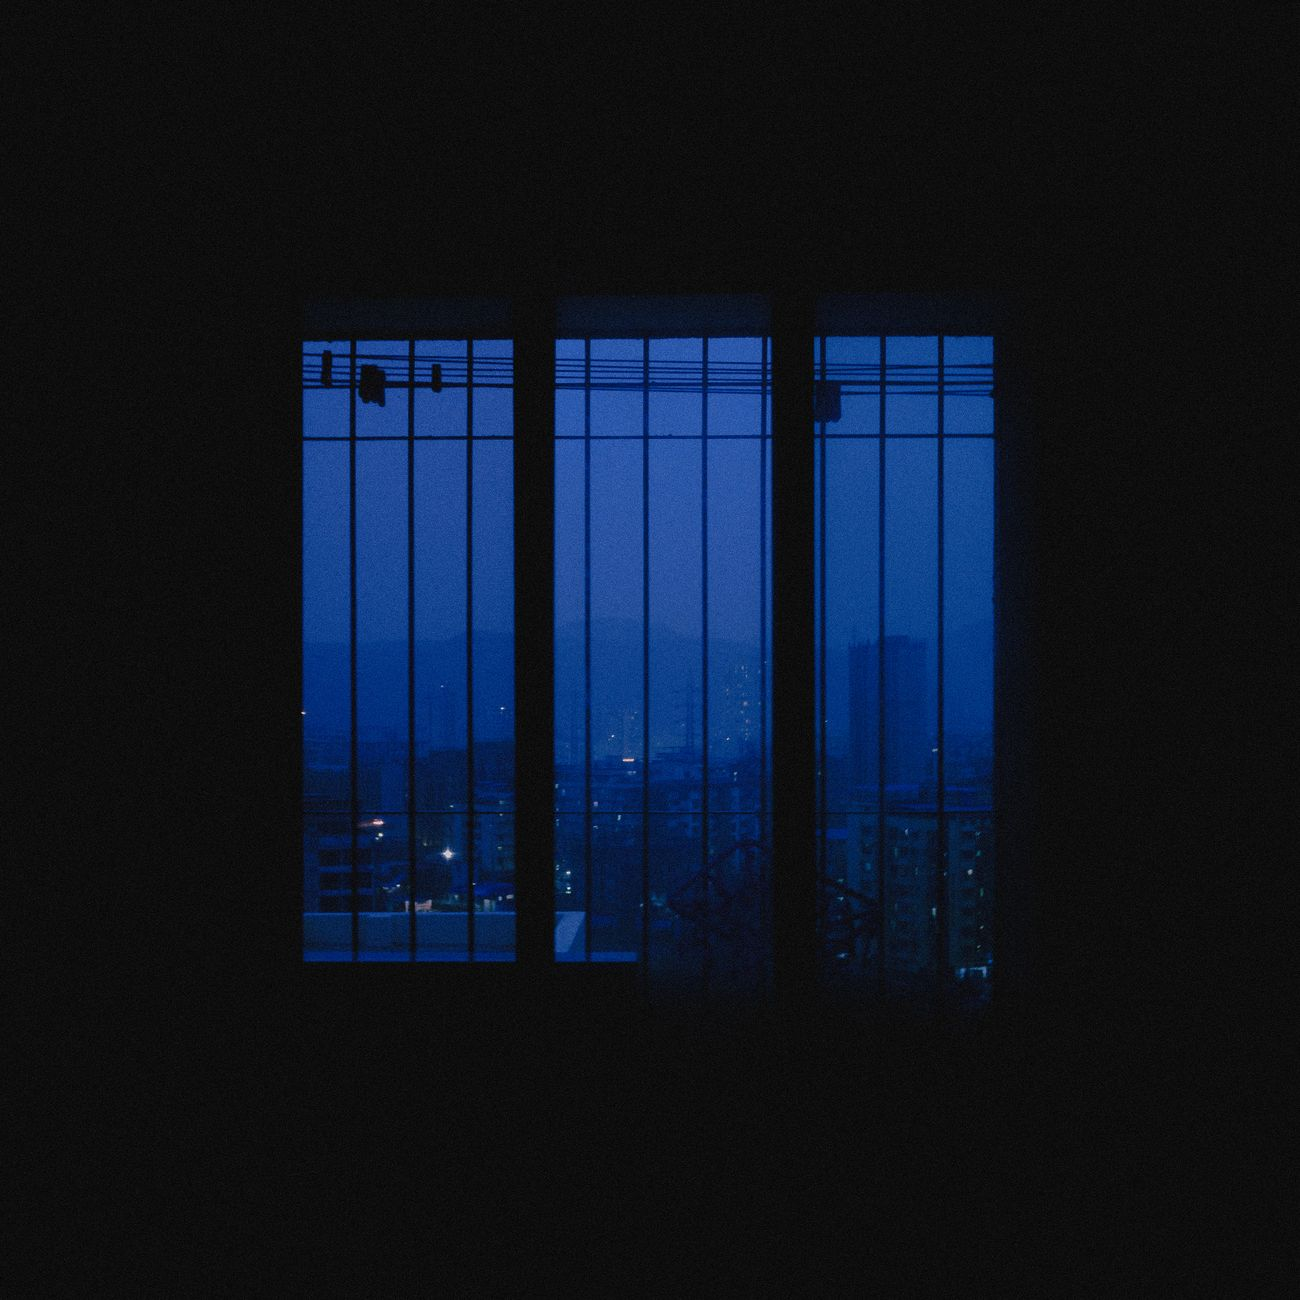
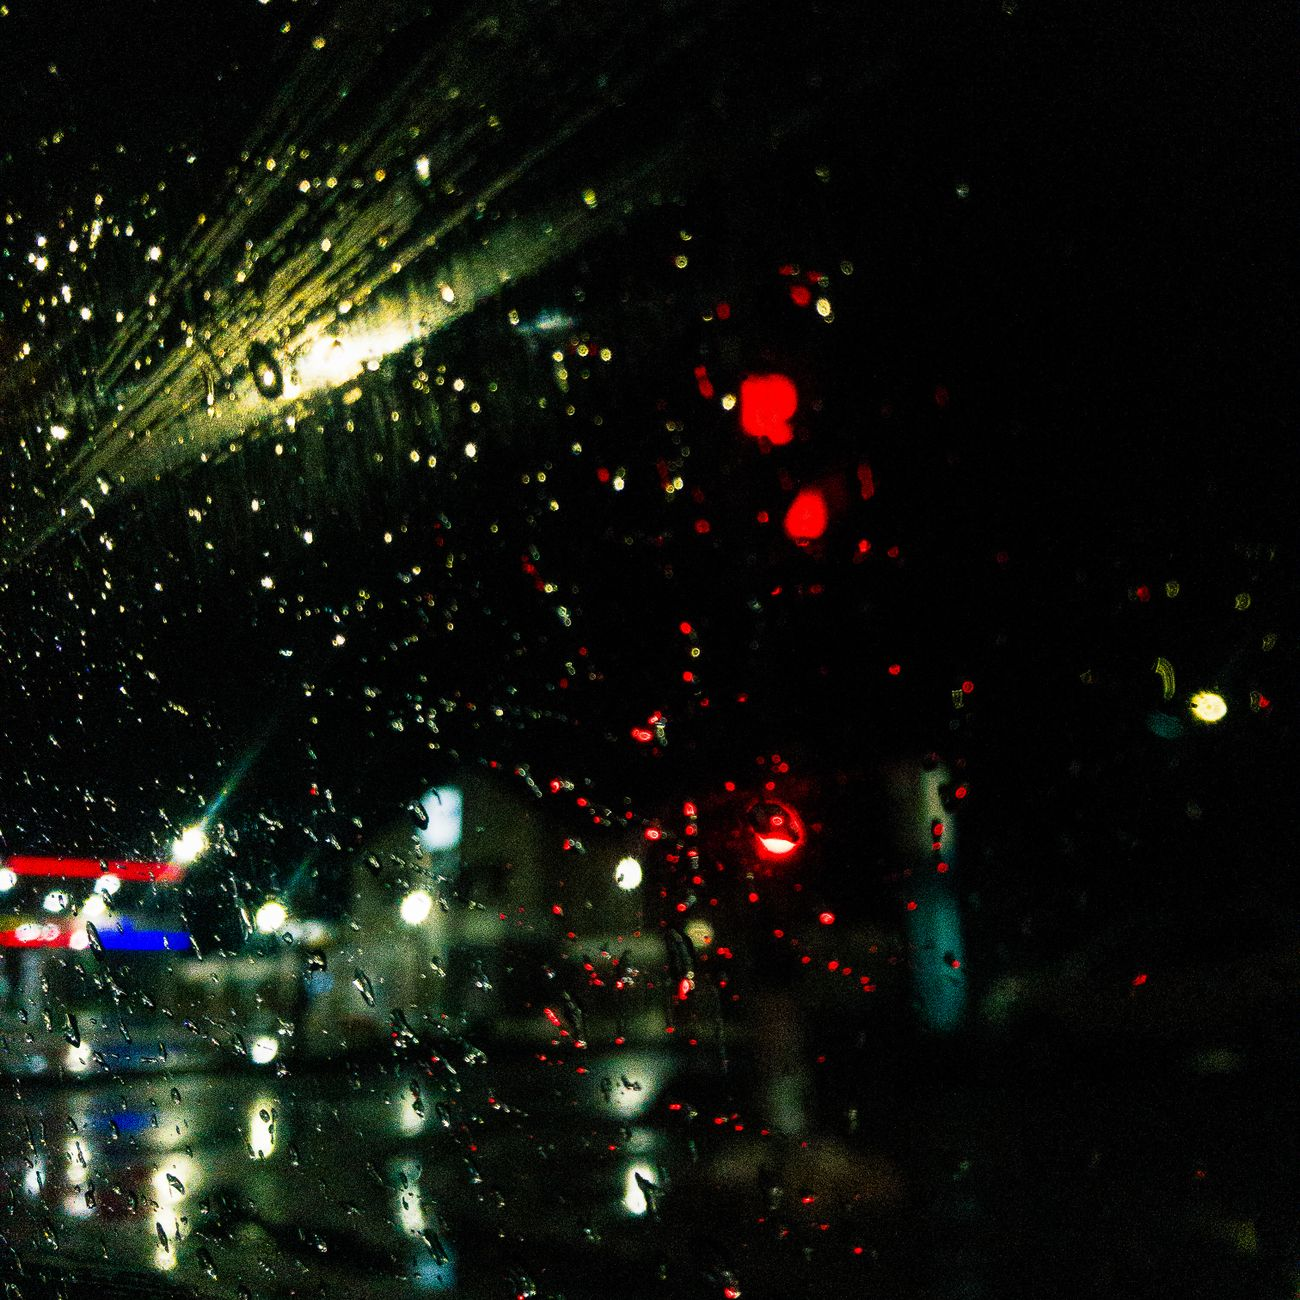
7 şarkının duplicate YouTube video/Shorts karmaşasını temizle
2026-09-05 kapak migrasyonu sırasında yanlışlıkla oluşan duplicate ana
videolar (10 adet) ve Shorts (14 adet) YouTube Studio'dan kalıcı olarak
silindi; doğru/orijinal videolar tekrar Herkese Açık yapıldı. Yerel
state.json'lar (Bir Bahar Daha, Sabaha Kadar, Kalbim Oynuyo, Kumdan
Denize, beni bırakma, ilk otomasyon, ilk-sarkim) ve docs/latest.html
gerçek/canlı video ID'leriyle senkronize edildi; Kumdan Denize'nin
Shorts açıklamasındaki ölü youtu.be linki de düzeltildi.

Claude-Session: https://claude.ai/code/session_01Usg5tyokXXx2orwyEFdeQo

diff --git a/docs/latest.html b/docs/latest.html
@@ -76,6 +76,7 @@
   <h1>Famous Music Studio</h1>
   <h2>Şarkılar</h2>
   <ul>
+    <li><a href="https://youtu.be/kyE-TvW0WQ4">Sokaklar Beni Tanır</a></li>
     <li><a href="https://youtu.be/NMFMXdUPBT8">Kumdan Denize</a></li>
     <li><a href="https://youtu.be/9qgIU8vcYZY">Sofraya Gelmedin</a></li>
     <li><a href="https://youtu.be/0ePR5BUUFoQ">Yürek Yarası</a></li>
